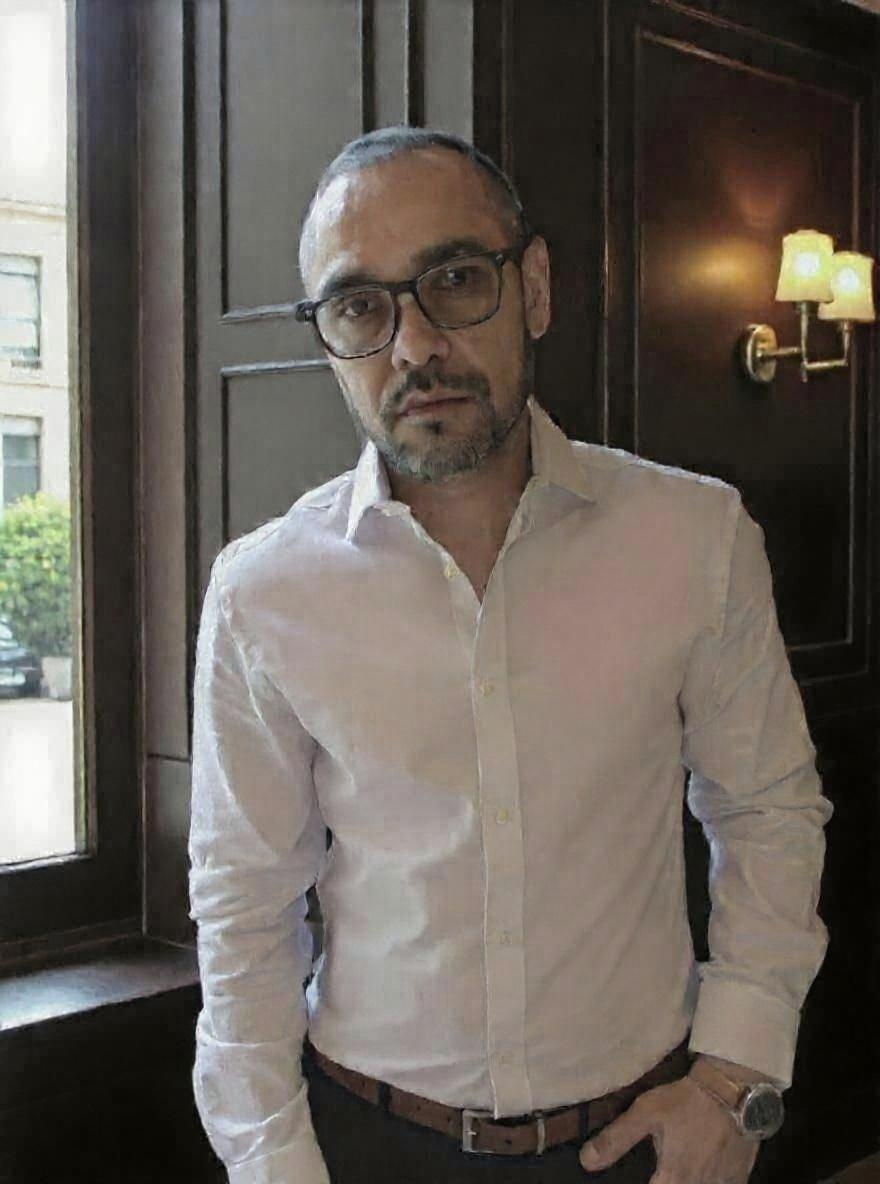
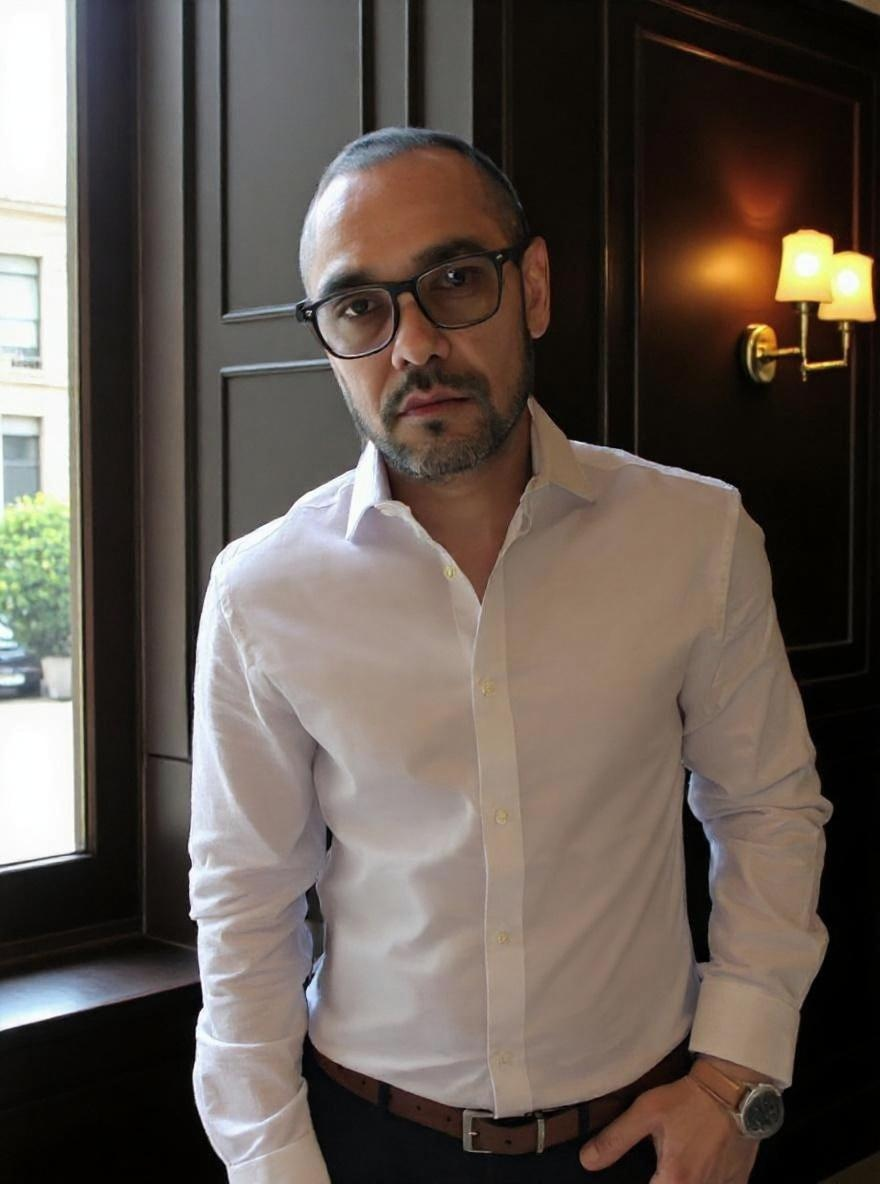
v3.1.16: revert portrait to v2-pass2-shadow (cleanest pixels)
v3.1.13/14 ran portrait through 5+ sequential kontext/max passes
which compounded JPEG generation-loss artifacts. Per user feedback,
zoomed-in pixel quality looked "AI-processed" and unnatural.

Tried conservative clarity-upscaler cleanup (creativity 0.15,
resemblance 0.9, 2x upscale) — produced new artifacts: face went
plasticky, right-side glasses arm rendered with glitch, sleeves
unchanged.

Rolled back to v2-pass2-shadow: only 2 kontext passes deep, retains
the relit lounge background + chest-wrinkle smoothing, leaves natural
shirt drape on sleeves rather than over-correcting them. Cleanest
trade-off between retouch and pixel integrity.

138 KB, 880x1184. Cache-bust ?v=3.1.16.

diff --git a/index.html b/index.html
@@ -388,7 +388,7 @@
         <div class="about-grid">
           <figure class="portrait-figure">
             <div class="portrait-artwork">
-              <img src="assets/portrait.jpg?v=3.1.14"
+              <img src="assets/portrait.jpg?v=3.1.16"
                    alt="Taran Aujla, Salesperson with HomeLife G1 Realty Inc., Brokerage. Editorial portrait."
                    width="880" height="1184"
                    loading="lazy" decoding="async" />

diff --git a/README.md b/README.md
@@ -273,6 +273,7 @@ A fade-in-on-scroll effect exists in the inline `<script>` at the bottom of `ind
 
 ## Version history
 
+- **v3.1.16** (2026-05-03) Portrait reverted to `v2-pass2-shadow` per user feedback. v3.1.13/14/15's stack of 5+ kontext/max passes (sleeves aggressive → face glow → left-arm focused → face-brighter-natural) compounded JPEG generation-loss artifacts and gave the photo an "AI-processed" pixel quality when zoomed in. A conservative `clarity-upscaler` cleanup pass (v6, creativity 0.15, resemblance 0.9, 2x upscale) was attempted but introduced new artifacts: face went slightly plasticky around cheeks, right-side glasses arm rendered with a visible glitch, sleeve wrinkles unchanged. User opted to roll back all the way to `v2-pass2-shadow` (the cleanest stop-point — only 2 kontext passes deep, retains the relit lounge background + initial chest-wrinkle smoothing, leaves natural shirt drape on sleeves rather than try to over-correct them). 138 KB, 880×1184. Cache-bust to `?v=3.1.16`. Pipeline scripts retained under `assets/portrait-source/_run-*.mjs` for future re-runs if desired (start fresh from L4 background to avoid the multi-pass pixel decay).
 - **v3.1.15** (2026-05-03) Reverted brand wordmark mix-blend-mode experiments per user direction ("leave the logo as is — white even on scroll its fine"). v3.1.12 introduced `mix-blend-mode: difference` on `.brand-name`, `.brand-sub`, and the inner SVG polygon to auto-invert colour against any background. Combined with the still-present `.topbar.over-light` `color: var(--paper-ink) !important` override, the difference math went the wrong way (dark navy paint differenced against cream paint = pale washed-out result) and the wordmark stayed effectively invisible on cream sections. Diagnosed via Chrome MCP runtime inspection: the `over-light` JS class isn't being added to the `.topbar` at runtime for some reason (the IIFE registers but the apply listener never fires the class transition — root cause unclear after a few iterations, deferred). User opted to keep the brand wordmark in its original cream/bone state on all backgrounds rather than continue debugging — the icon's outer L-frame (gold) remains visible on both palettes which provides enough brand presence. Removed: `mix-blend-mode: difference` and `color: #FFFFFF` from `.brand-name`/`.brand-sub`; `.topbar .brand-mark polygon:last-of-type` mix-blend-mode override. Restored: original `color: var(--bone)` / `color: var(--bone-muted)`. The `.topbar.over-light` background and outer-polygon `gold-deep` overrides remain in place — they apply if the JS ever does fire and don't cause harm if it doesn't.
 - **v3.1.14** (2026-05-03) Portrait v5: hyper-focused on the LEFT-side arm of the image (the arm without the watch, near the window) + a stronger but still natural face brightening pass. v3.1.13 left this specific arm heavily wrinkled because the prior prompts treated "both sleeves" symmetrically and kontext gravitated toward the easier-to-edit watch arm. This pass uses spatial language ("the arm on the LEFT side of the image", "closest to the window", "WITHOUT the wristwatch") at `guidance_scale: 7.0` to force kontext to actually edit that region. Pass B follows with another face-brightening at `guidance: 5.5` — face is now noticeably more luminous and even but still uniform across the face (no directional spotlight). Cumulative output ships as `assets/portrait.jpg`. Cache-bust to `?v=3.1.14`.
 - **v3.1.13** (2026-05-03) Portrait v4: aggressive sleeves + subtle natural face brightening. v3.1.12's pass-A sleeve smoothing was too subtle — user reported wrinkles still visible at the elbows. Two new sequential kontext/max passes on top of v3.1.12: (A) aggressive sleeve smoothing at `guidance_scale: 6.5` with explicit "perfectly pressed", "freshly ironed", "no visible wrinkles or folds anywhere on forearms, elbows, cuffs" language; (B) subtle uniform face brightening at `guidance_scale: 5.5` — explicitly NOT a directional spotlight (which the previous v3-passB attempt was rejected for), instead a slight ambient warmth across the whole face that retains all natural skin texture, beard detail, and existing facial shadows. Pass-B cumulative output ships as `assets/portrait.jpg`. Cache-bust to `?v=3.1.13`.
